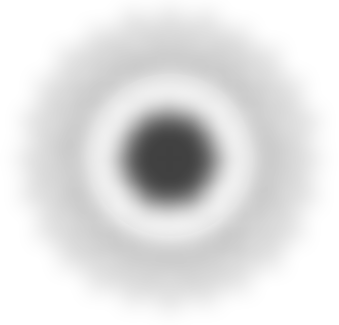
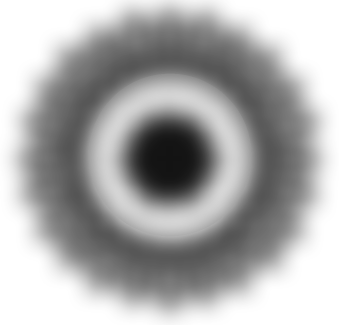
fixed mouse angle bug in turret rotation made better explosion decal

diff --git a/Assets/Scripts/Controllers/Player/PlayerController.cs b/Assets/Scripts/Controllers/Player/PlayerController.cs
@@ -194,7 +194,7 @@ namespace TankArena.Controllers
                 if (Math.Abs(rotationDiff) > 0.1f)
                 {
                     var intensity = Mathf.Clamp(rotationDiff, -1.0f, 1.0f);
-                    DBG.Log("Turn intensity: {0}", intensity);
+                    // DBG.Log("Turn intensity: {0}", intensity);
                     commands.Enqueue(new TankCommand(TankCommandWords.TANK_COMMAND_MOVE_TURRET, new Dictionary<string, object>() {
                         { TankCommandParamKeys.TANK_CMD_MOVE_TURRET_KEY, intensity }
                     }));
@@ -229,7 +229,7 @@ namespace TankArena.Controllers
                     direction = angle < prevAngle? prevDirection : -prevDirection;
                     //rotation intensity to lockon is normalized
                     var intensity = 1.0f * direction;
-                    DBG.Log("Turn intensity: {0}", intensity);
+                    // DBG.Log("Turn intensity: {0}", intensity);
                     commands.Enqueue(new TankCommand(TankCommandWords.TANK_COMMAND_MOVE_TURRET, new Dictionary<string, object>() {
                         { TankCommandParamKeys.TANK_CMD_MOVE_TURRET_KEY, intensity }
                     }));
@@ -291,15 +291,15 @@ namespace TankArena.Controllers
             Vector2 mousePos = Input.mousePosition;
             var screenPoint = Camera.main.WorldToScreenPoint(go.position);
             var offset = new Vector2(mousePos.x - screenPoint.x, mousePos.y - screenPoint.y);
-            //DBG.Log("Current rotations: turret: {0}, {1}, chassis: {2}, {3}", 
-            //    turretRotator.eulerAngles.z, 
-            //    turretRotator.localEulerAngles.z,
-            //    transform.eulerAngles.z,
-            //    transform.localEulerAngles.z);
-            var angle = Mathf.Atan2(offset.y, offset.x) * Mathf.Rad2Deg - transform.eulerAngles.z;
+            DBG.Log("Current positions: \nmousePos: {0} | goPos: {1}, goScreen: {2}", 
+               mousePos, 
+               go.position,
+               screenPoint);
+            var angle = Mathf.Atan2(offset.y, offset.x) * Mathf.Rad2Deg;// - go.transform.eulerAngles.z;
+            DBG.Log("raw angle: {0}", angle);
             //angle will get calculated based of the difference of main tank rotation and turret rotation
             var wantedRotation = Quaternion.Euler(0, 0, angle - 90);
-            //DBG.Log("Wanted z-rotation: {0}", angle);  
+            DBG.Log("Offset: {0}", offset);  
 
             // turretRotator.localRotation =
             //     Quaternion.Lerp(turretRotator.localRotation, wantedRotation, Time.fixedDeltaTime * 1.7f);

diff --git a/Assets/DebugTank.cs b/Assets/DebugTank.cs
@@ -1,12 +1,9 @@
 using UnityEngine;
-using System.Collections;
 using TankArena.Utils;
 using TankArena.Models;
 using TankArena.Models.Tank;
 using MovementEffects;
-using System;
 using System.Collections.Generic;
-using System.Linq;
 using TankArena.Controllers;
 
 public class DebugTank : MonoBehaviour {
@@ -29,7 +26,7 @@ public class DebugTank : MonoBehaviour {
 		DBG.Log("Loading done!");
         var player = new Player("dummy-save-location");
 		player.Cash = 90;
-		player.Character = EntitiesStore.Instance.Characters["cletus"];
+		player.Character = EntitiesStore.Instance.Characters["lugnut"];
 		DBG.Log("Loading info for character {0}", player.Character.Name);
 		player.Name = "Debug";
 		player.CurrentTank = Tank.FromCode(player.Character.StartingTankCode);
